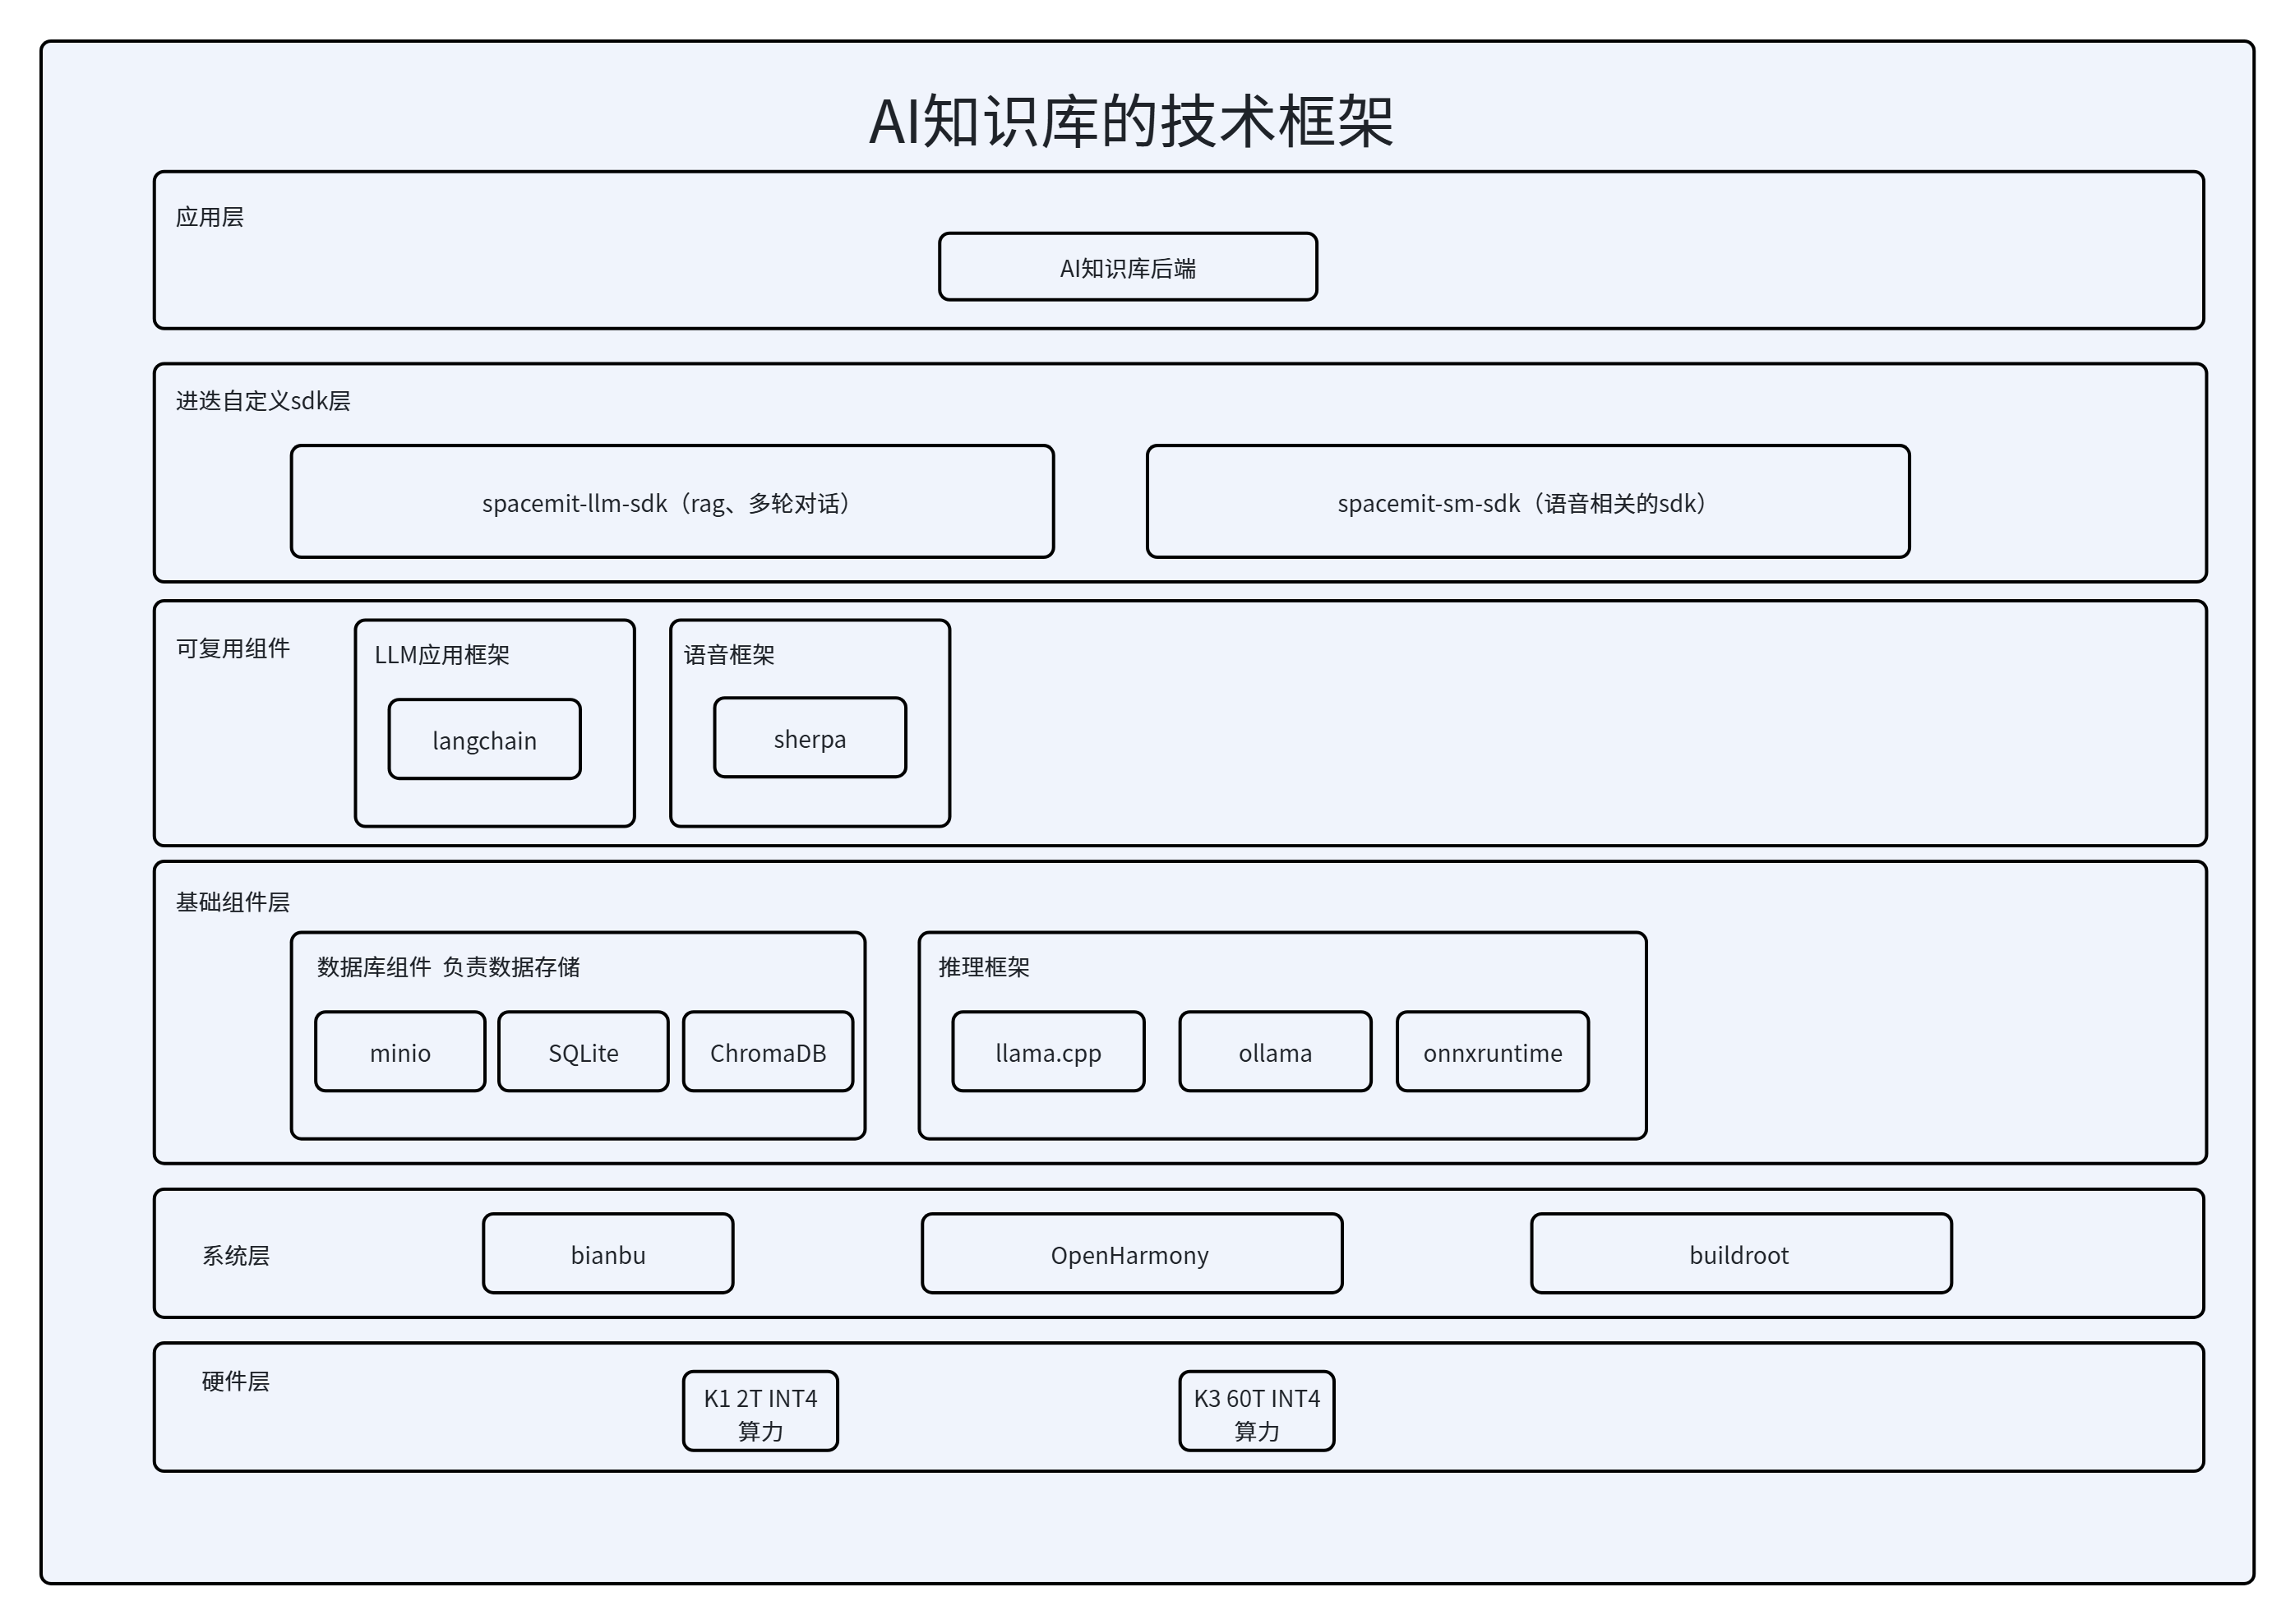
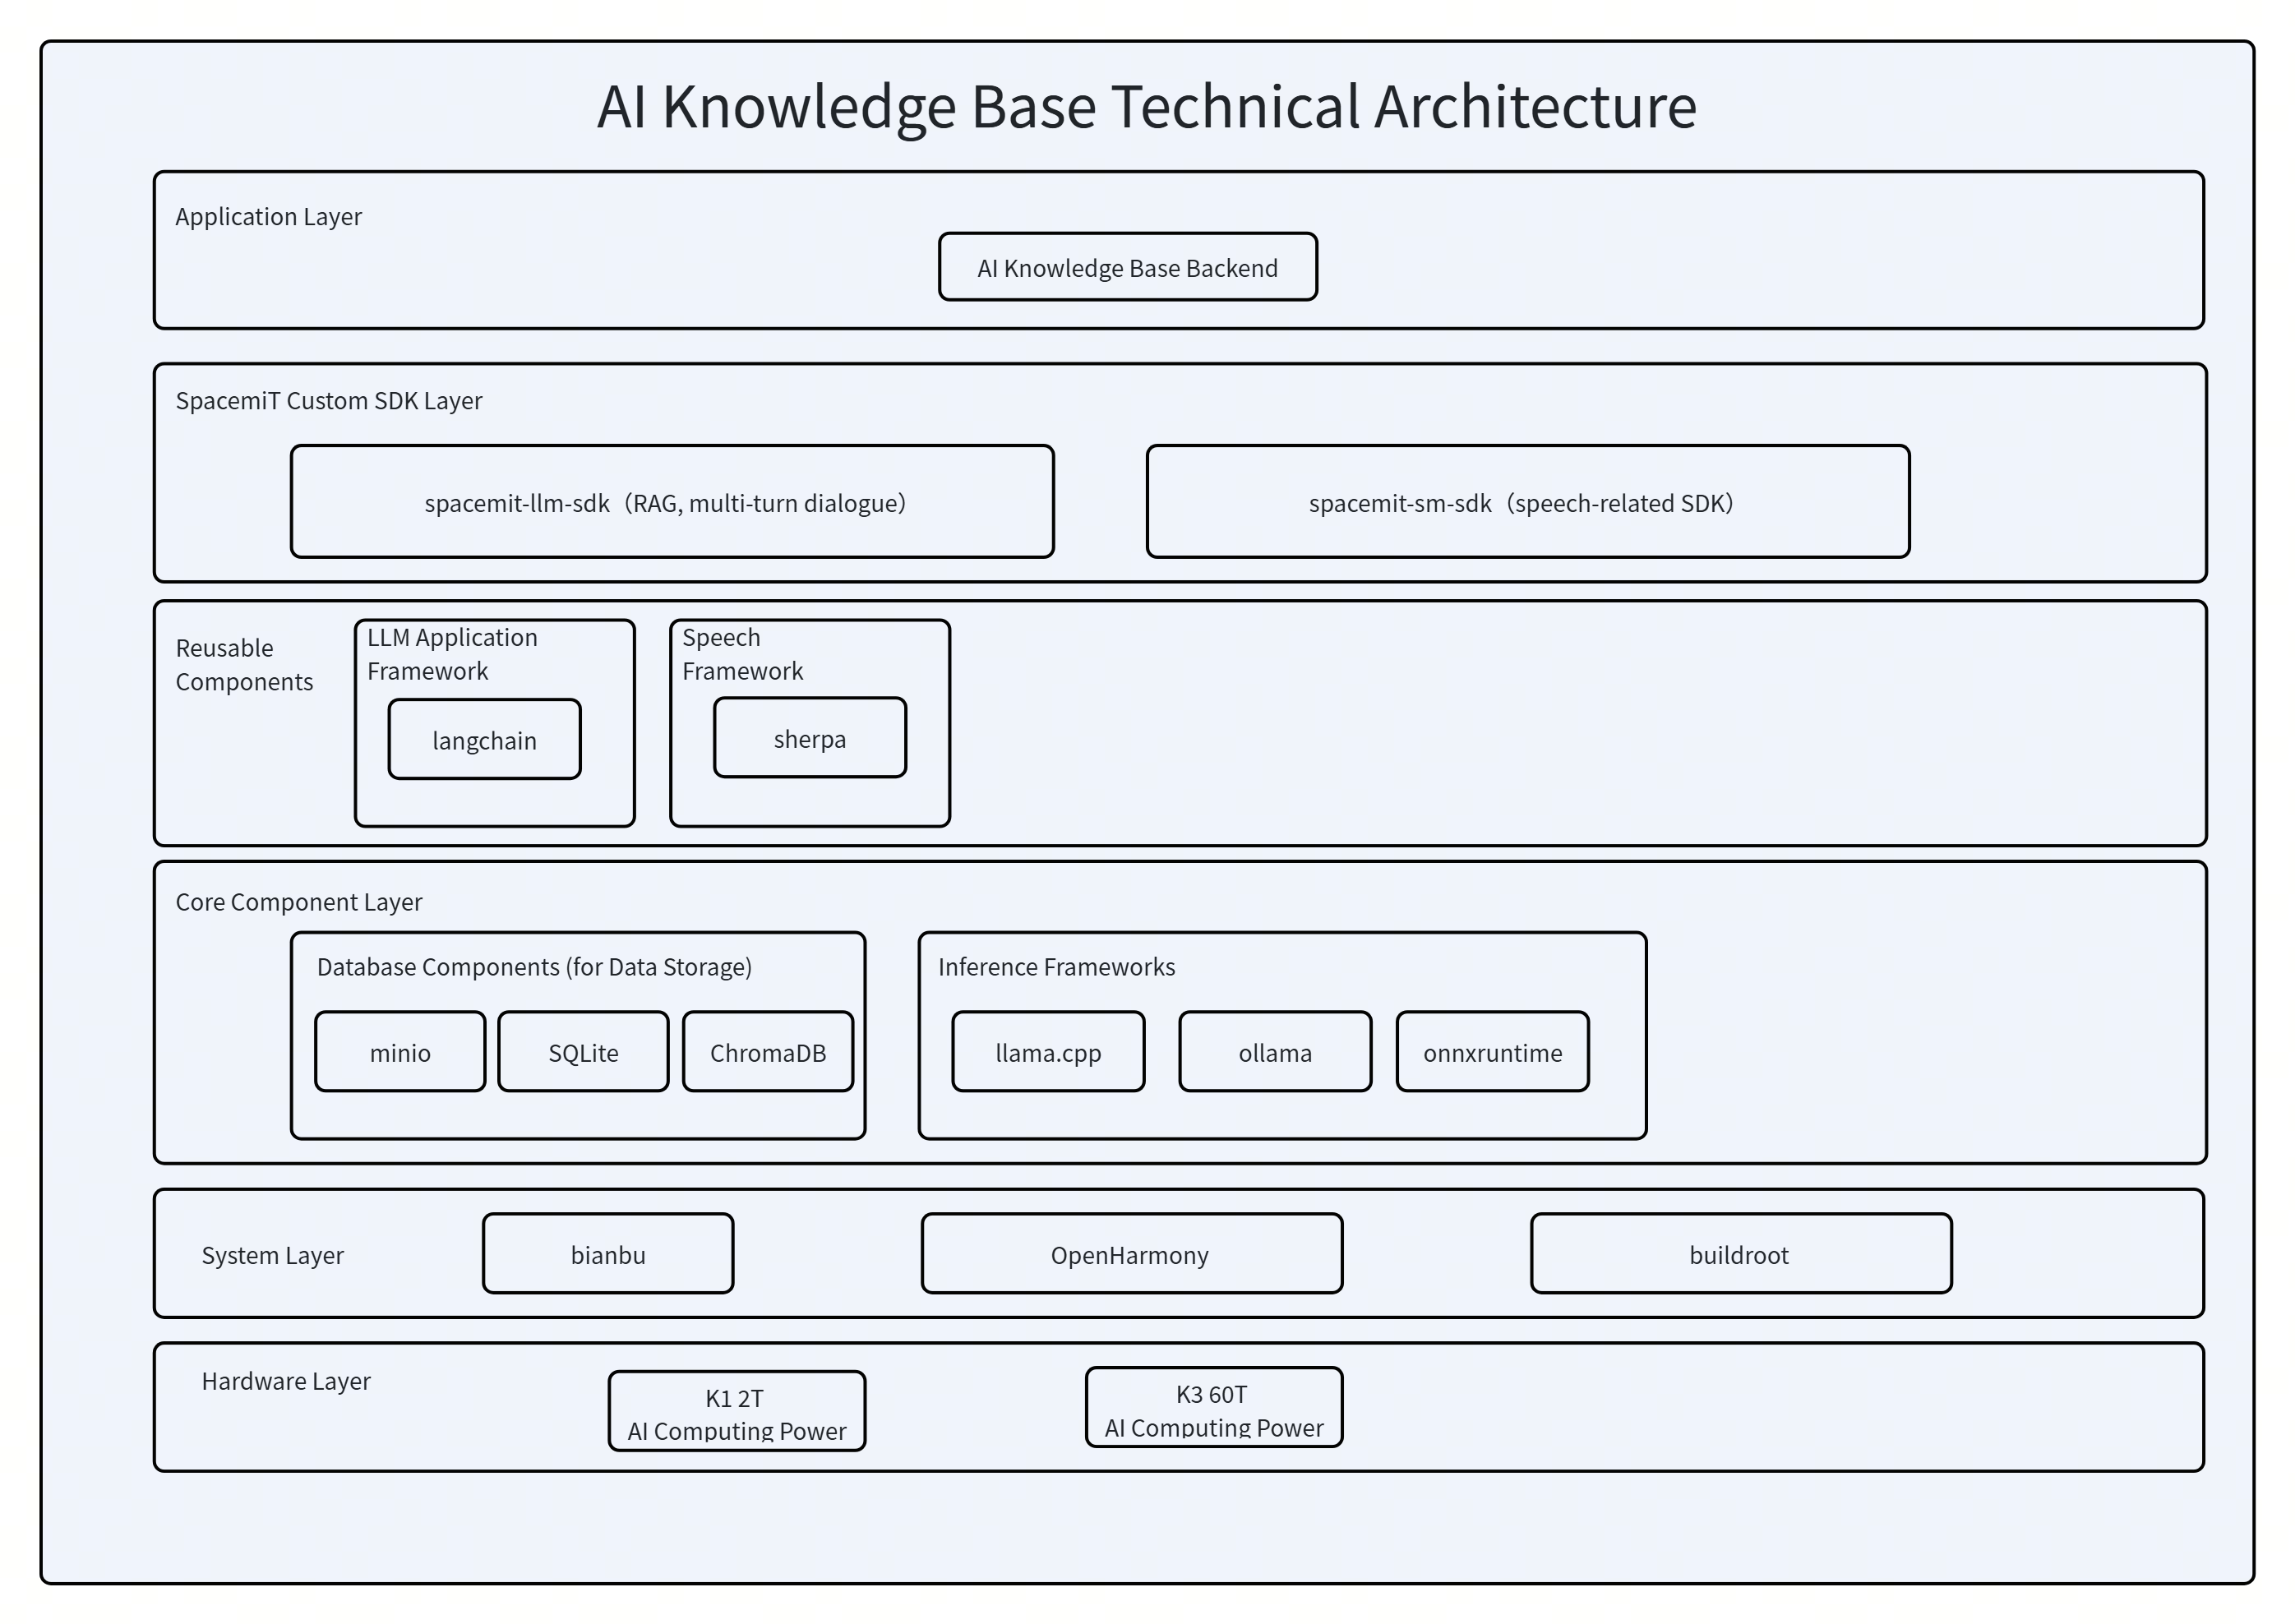
zenow in english

diff --git a/en/solutions/aicomputer_solution/zenow.md b/en/solutions/aicomputer_solution/zenow.md
@@ -68,7 +68,7 @@ sudo apt install zenow
 
 Open the application menu from the bottom-left corner, search for **zenow**, and click to launch.
 
-![](../static/zenow_1.jpg)
+<img src="../static/zenow_1_en.jpg" alt="" width="300">
 
 > 💡 **Tip**: Right-click the application icon and select **Add to Desktop**, then mark it as trusted for quick access in future sessions.
 
@@ -80,11 +80,11 @@ On first launch, AI models must be downloaded before use:
 2. Locate the desired model in the model list.
 3. Click the model name to begin downloading.
 
-![](../static/zenow_2.jpg)
+![](../static/zenow_2_en.jpg)
 
 You can download multiple models simultaneously:
 
-![](../static/zenow_3.jpg)
+![](../static/zenow_3_en.jpg)
 
 ### 3. Start a Model
 
@@ -92,11 +92,11 @@ Once a model has downloaded, click its name again to start it. Model status is i
 
 | Indicator | Status      |
 |-----------|-------------|
-| 🔴 Red    | Not started |
-| 🟡 Yellow | Starting up |
-| 🟢 Green  | Ready       |
+| 🔴 Red    | Stopped |
+| 🟡 Yellow | Starting |
+| 🟢 Green  | Running      |
 
-![](../static/zenow_4.jpg)
+![](../static/zenow_4_en.jpg)
 
 > ⚠️ **Important**: To use the full knowledge base feature, download and start at least one model of each type:
 > - **LLM model** — Generates conversational responses
@@ -109,16 +109,16 @@ Once a model has downloaded, click its name again to start it. Model status is i
 
 #### Start a New Conversation
 
-1. Click **New Chat** in the left sidebar.
+1. Click **Chat** in the left sidebar.
 2. Confirm the LLM model status shows green.
-3. Enter a question in the input box and press Enter, or click the send button.
+3. Enter a question in the input dialog box 
+4. Press Enter, or click the send button.
 
-![](../static/zenow_13.jpg)
+![](../static/zenow_13_en.jpg)
 
 The application automatically creates a conversation session and supports multi-turn dialogue with persistent context memory.
 
-![](../static/zenow_19.jpg)
-
+![](../static/zenow_19_en.jpg)
 
 ### Knowledge Base Management
 
@@ -126,102 +126,97 @@ The application automatically creates a conversation session and supports multi-
 
 A SpacemiT knowledge base is included by default and can be used to query topics covered within it, such as the K3's computing performance.
 
-![Pre-loaded knowledge base](../static/zenow_27.png)
+![Pre-loaded knowledge base](../static/zenow_27_en.png)
 
 #### Create a Knowledge Base
 
 1. Click **Knowledge Base** in the left sidebar.
-2. Click the **New Knowledge Base** button.
+2. Click the **Create Knowledge Base** button.
 3. Enter a name and description for the knowledge base.
 4. Optionally, select a custom avatar.
 
-![Create knowledge base](../static/zenow_20.jpg)
+![Create knowledge base](../static/zenow_20_en.jpg)
 
 #### Import Documents
 
-1. Open the knowledge base created in the previous step.
-2. Click the **Add Document** button.
-3. Select the files to upload (hold **Ctrl** to select multiple files).
+1. Open a knowledge base.
+   ![](../static/zenow_5_en.jpg)
+2. Click the **Add Material** button.
+   ![](../static/zenow_7_en.jpg)
+3. Select the files or folder to upload (hold **Ctrl** to select multiple files).
+   ![](../static/zenow_8_en.jpg)
 4. Wait for document processing to complete.
-5. If the page is navigated away from before vectorization finishes, a prompt will appear — click **Continue Vectorizing** and wait for the process to complete.
-
-![](../static/zenow_5.jpg)
-![](../static/zenow_7.jpg)
-![](../static/zenow_8.jpg)
-![](../static/zenow_11.jpg)
-![](../static/zenow_12.jpg)
+   ![](../static/zenow_11_en.jpg)
+5. If the page is navigated away from before vectorization finishes, a prompt will appear — click **Continue Vectorization** and wait for the process to complete.
+   ![](../static/zenow_12_en.jpg)
 
 #### Chat with a Knowledge Base
 
 1. Start a new conversation or select an existing session.
-2. In the input box, type **@** and select the target knowledge base from the picker.
-3. Enter a question and press Enter. The AI will respond based on the knowledge base content.
-
-![](../static/zenow_14.jpg)
-![](../static/zenow_15.jpg)
-![](../static/zenow_16.jpg)
+2. In the input dialogue box, type **@** and select the target knowledge base.
+   ![](../static/zenow_14_en.jpg)
+3. Enter a question and press Enter. 
+   ![](../static/zenow_15_en.jpg)
+   The AI will respond based on the knowledge base content.
+   ![](../static/zenow_16_en.jpg)
 
 ## Advanced Settings
 
-### Chat Parameters
+### Parameters
 
-![Chat parameters](../static/zenow_24.png)
+![Chat parameters](../static/zenow_24_en.png)
 
-The following LLM generation parameters can be configured on the Settings page:
+The following LLM parameters can be configured on the Settings page:
 
-**LLM Client Parameters**
-- **temperature**: Controls output randomness. Default: `0.7`. Range: `0.0–2.0`. Higher values produce more varied responses.
-- **repeat_penalty**: Reduces repetitive output. Default: `1.1`.
-- **max_tokens**: Maximum number of tokens per response. Default: `2048`.
+**LLM Parameters**
+- **Temperature**: Controls output randomness. Default: `0.7`. Range: `0.0–2.0`. Higher values produce more varied responses.
+- **repeat Penalty**: Reduces repetitive output. Default: `1.1`.
+- **Max Tokens**: Maximum number of tokens per response. Default: `2048`.
 
-**Conversation System Prompt (`conversation_system_prompt`)**
+**Conversation System Prompt**
 - Defines the AI's role, behavior, and response style.
 - Applies to standard chat mode (when no knowledge base is selected).
 
 ### RAG Parameters
 
-![RAG parameters](../static/zenow_25.png)
+![RAG parameters](../static/zenow_25_en.png)
 
 Knowledge base Q&A uses a two-stage retrieval and weighted fusion strategy. The following parameters can be configured:
 
 **LLM Client Parameters (RAG mode)**
-- **temperature**: Default: `0` (deterministic output).
-- **repeat_penalty**: Default: `1.1`.
-- **max_tokens**: Default: `120`.
-
-**Embed Client Parameters**
-- **normalize**: Whether to normalize embedding vectors. Default: `true`.
-- **truncate**: Whether to truncate text that exceeds the maximum length. Default: `true`.
+- **Temperature**: Default: `0` (deterministic output).
+- **Repeat Penalty**: Default: `1.1`.
+- **Max Tokens**: Default: `120`.
 
 **Retrieval Parameters**
 
-- **top_k** (final result count)
+- **Top K** (final result count)
   - Number of document chunks returned to the LLM after weighted fusion.
   - Default: `5`. Range: `1–20`.
   - Affects context length and generation quality.
 
-- **initial_k** (initial retrieval count)
+- **Initial K** (initial retrieval count)
   - Number of candidate documents retrieved in the first-stage Embed vector search.
   - Default: `10`. Range: `5–100`.
   - Higher values improve recall but increase computational cost.
 
-- **min_similarity** (minimum similarity threshold)
+- **Min Similarity** (minimum similarity threshold)
   - Similarity threshold below which results are filtered out.
   - Default: `-1` (no filtering). Range: `-1.0–1.0`.
 
 **Fusion Weight Parameters**
 
-- **embed_weight** (embedding weight)
+- **Embed Weight** (embedding weight)
   - Weight of the Embed vector similarity score in the fusion formula.
   - Default: `0.4`. Range: `0.0–1.0`.
   - Controls the importance of semantic similarity.
 
-- **bm25_weight** (keyword weight)
+- **BM25 Weight** (keyword weight)
   - Weight of the BM25 keyword matching score in the fusion formula.
   - Default: `0.2`. Range: `0.0–1.0`.
   - Controls the importance of exact keyword matching.
 
-- **rerank_weight** (reranking weight)
+- **Rerank Weight** (reranking weight)
   - Weight of the Rerank model score in the fusion formula.
   - Default: `0.4`. Range: `0.0–1.0`.
   - Controls the importance of deep semantic understanding.
@@ -230,8 +225,8 @@ Knowledge base Q&A uses a two-stage retrieval and weighted fusion strategy. The 
 
 **Toggle Parameters**
 
-- **bm25_enable**: Enables BM25 keyword retrieval. Default: `true`.
-- **rerank_enable**: Enables Rerank re-scoring. Default: `true`.
+- **Enable BM25**: Enables BM25 keyword retrieval. Default: `true`.
+- **Use Rerank**: Enables Rerank re-scoring. Default: `true`.
 
 **Retrieval Pipeline**
 

diff --git a/zh/solutions/aicomputer_solution/zenow.md b/zh/solutions/aicomputer_solution/zenow.md
@@ -187,10 +187,6 @@ sudo apt install zenow
 - **repeat_penalty（重复惩罚）**：默认 1.1
 - **max_tokens（最大生成长度）**：默认 120
 
-**Embed 客户端参数**
-- **normalize（归一化）**：是否对向量归一化，默认 true
-- **truncate（截断）**：是否截断超长文本，默认 true
-
 **检索参数（retrieval）**
 
 - **top_k（最终返回数量）**